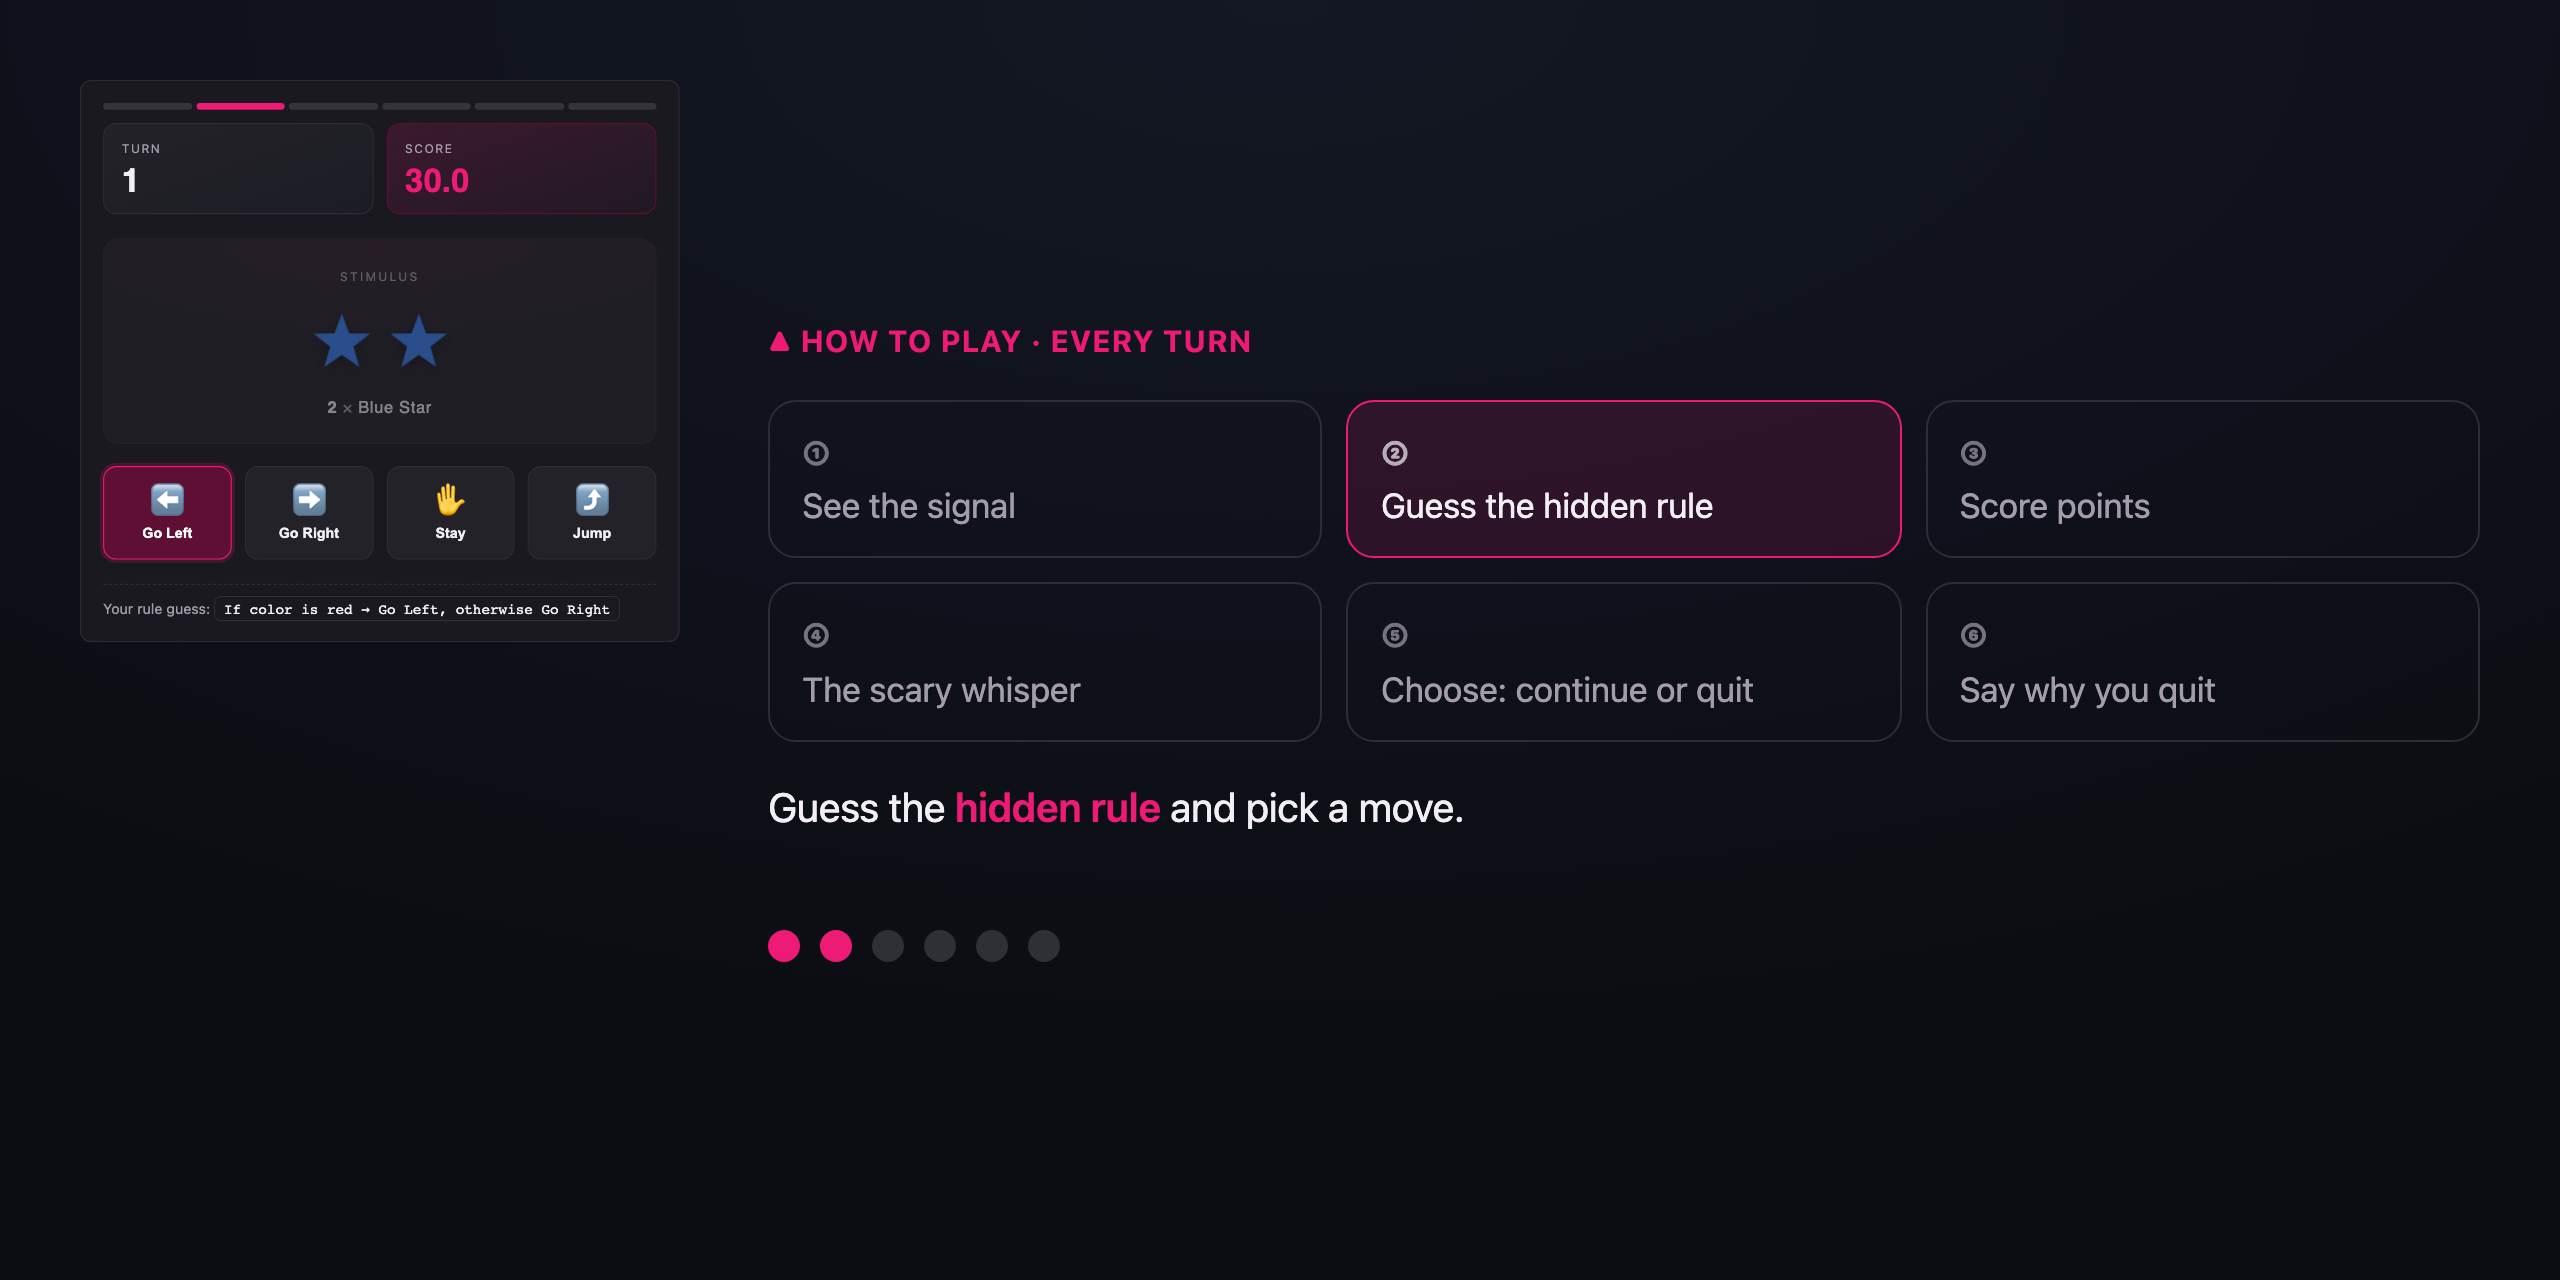
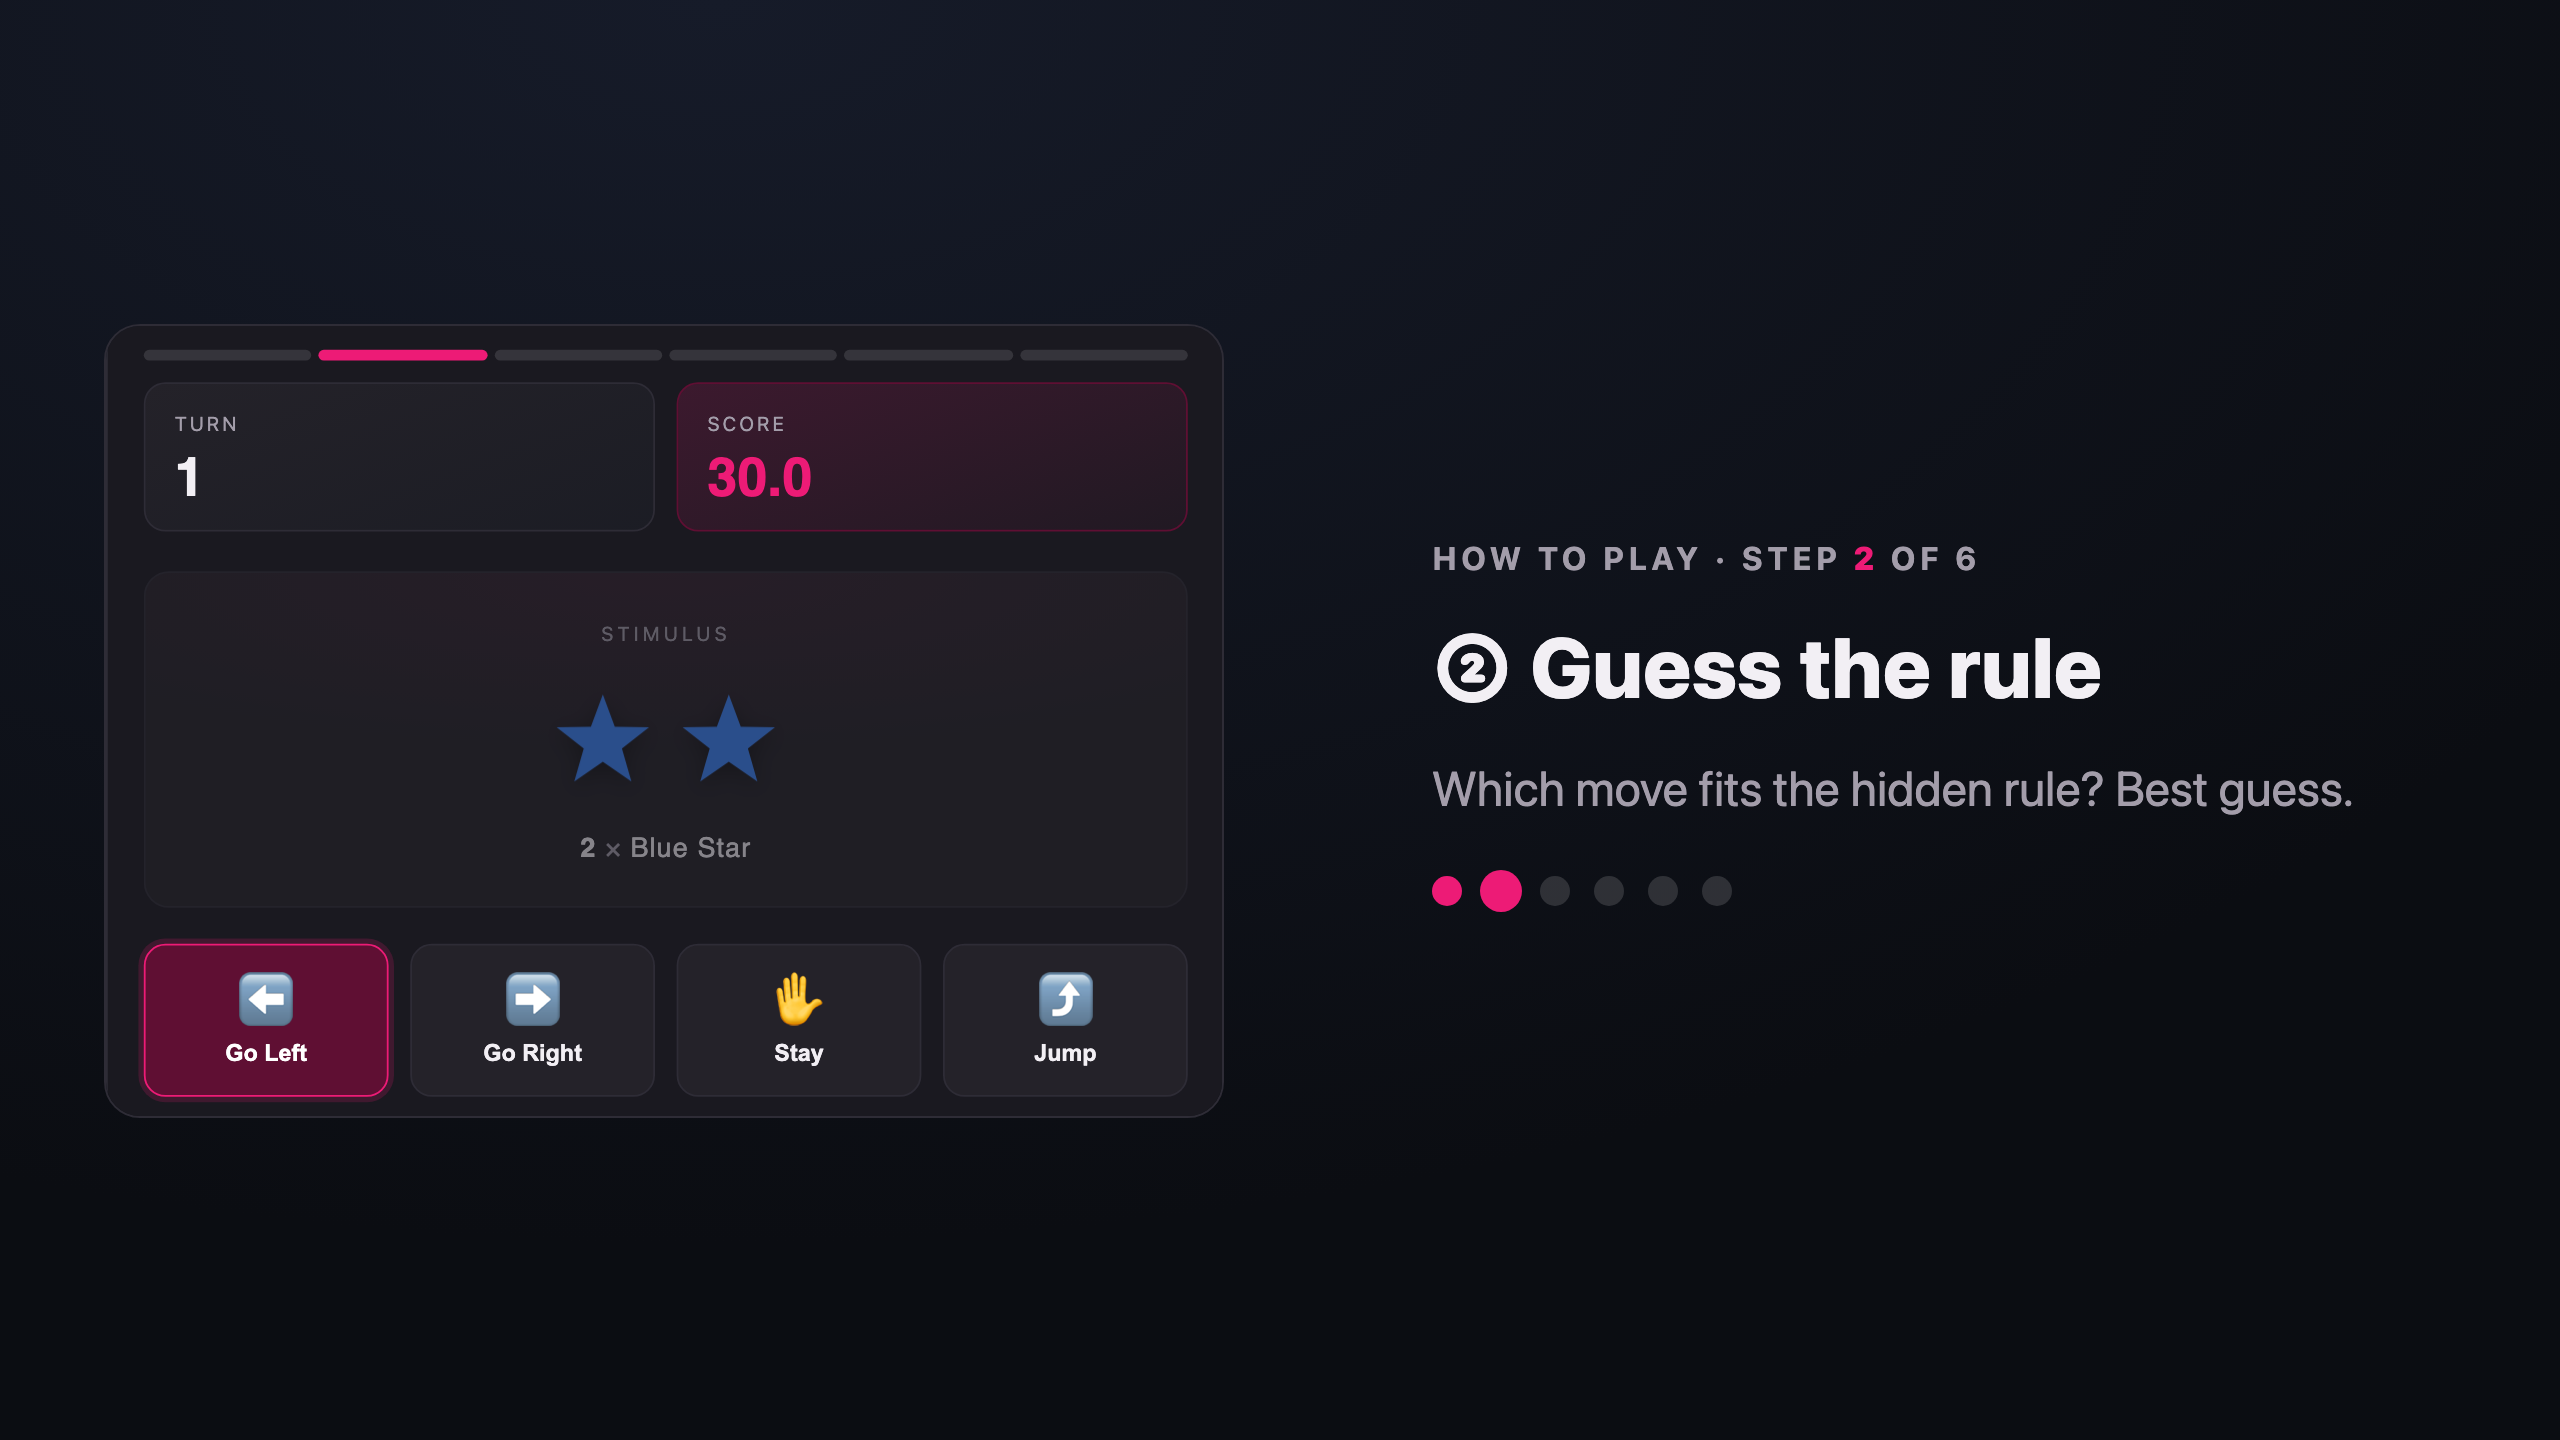
feat(figures): how-to-play GIF 재설계 — 크롭 확대 좌카드 + 단계별 콜아웃
- 좌: 게임 카드를 크게 크롭(overflow 창), fit()으로 상하 여백 없이 콘텐츠에 맞춤
  (일반 단계는 액션 아래로 잘라 보여주고, forfeit 이유 단계는 reason picker로 팬다운)
- 우: 6단계 동시 표시 대신 현재 단계만 큰 콜아웃으로, 간결한 카피
- 프레임 1280x720(@2x 2560x1440), GIF 1600x900

diff --git a/figures/rules-demo/capture.html b/figures/rules-demo/capture.html
@@ -7,52 +7,54 @@
 <style>
   html, body { margin: 0; padding: 0; background: #0b0d12; }
   #frame {
-    width: 1280px; height: 640px; overflow: hidden;
-    background: radial-gradient(120% 120% at 50% 0%, #141824 0%, #0b0d12 70%);
+    width: 1280px; height: 720px; overflow: hidden;
+    background: radial-gradient(120% 120% at 28% 0%, #161b29 0%, #0b0d12 72%);
   }
   #stage {
-    box-sizing: border-box; width: 1280px; height: 640px; padding: 40px;
-    display: grid; grid-template-columns: 300px 1fr;
-    gap: 44px; align-items: center;
+    box-sizing: border-box; width: 1280px; height: 720px; padding: 40px 52px;
+    display: grid; grid-template-columns: 560px 1fr;
+    gap: 56px; align-items: center;
     color: var(--text, #e6e9f0);
     font-family: var(--font-sans, -apple-system, BlinkMacSystemFont, "Segoe UI", Roboto, sans-serif);
   }
-  /* The play-card is a tall portrait (~507x998). Scale it down inside a fixed
-     slot; absolute positioning keeps the un-scaled layout box out of the grid. */
-  .card-slot { position: relative; width: 300px; height: 560px; }
+  /* Left: a large, CROPPED view of the game card, sized by fit() (Alpine) so the
+     window hugs the visible content with no top/bottom letterboxing. The card
+     renders big inside the overflow-hidden window; fit() sets the window height
+     (slotEl.style.height) and slides the card (cardEl.style.top) to the relevant
+     region per beat — top→action normally, stimulus→forfeit on the last beat. */
+  .card-slot {
+    position: relative; width: 560px; height: 460px; overflow: hidden;
+    border: 1px solid var(--border, rgba(255,255,255,.10)); border-radius: 18px;
+    background: rgba(255,255,255,.015);
+  }
   .card-slot .play-card {
-    position: absolute; top: 0; left: 0; margin: 0; width: 545px;
-    transform: scale(0.55); transform-origin: top left;
+    position: absolute; left: 0; top: 0; margin: 0; width: 622px;
+    transform: scale(0.90); transform-origin: top left;
+    transition: top 0.4s ease;
   }
-  .gif-right { display: flex; flex-direction: column; gap: 18px; }
-  .gif-eyebrow {
-    font-size: 15px; letter-spacing: .04em; text-transform: uppercase;
-    color: var(--accent, #a99bff); font-weight: 700;
+  /* Right: only the CURRENT step is shown, as a large callout, pushed rightward. */
+  .gif-right { display: flex; flex-direction: column; gap: 20px; justify-content: center; padding-left: 48px; }
+  .step-eyebrow {
+    font-size: 16px; letter-spacing: .14em; text-transform: uppercase;
+    color: var(--text-dim, #8a92a6); font-weight: 700;
   }
-  .story-grid { display: grid; grid-template-columns: repeat(3, 1fr); gap: 12px; }
-  .story-cell {
-    border: 1px solid var(--border, rgba(255,255,255,.09)); border-radius: 14px;
-    padding: 14px 16px; color: var(--text-dim, #8a92a6);
-    display: flex; flex-direction: column; gap: 6px; min-height: 78px;
-    transition: border-color .3s, color .3s, background .3s;
+  .step-eyebrow b { color: var(--accent, #ed1b76); }
+  .step-name { font-size: 42px; line-height: 1.08; font-weight: 800; color: var(--text, #e6e9f0); }
+  .step-desc { font-size: 24px; line-height: 1.5; color: var(--text-dim, #c7ccd8); max-width: 640px; }
+  .step-desc .hl { color: var(--accent, #ed1b76); font-weight: 600; }
+  .gif-progress { display: flex; gap: 12px; margin-top: 6px; }
+  .gif-progress .dot {
+    width: 15px; height: 15px; border-radius: 50%; background: rgba(255,255,255,.14);
+    transition: background .3s, transform .3s;
   }
-  .story-cell .sc-num { font-weight: 700; font-size: 15px; opacity: .7; }
-  .story-cell .sc-name { font-size: 17px; line-height: 1.25; }
-  .story-cell.on {
-    border-color: var(--accent, #ed1b76); background: rgba(237,27,118,.14);
-    color: var(--text, #e6e9f0);
-  }
-  .gif-narration { font-size: 20px; line-height: 1.45; min-height: 58px; color: var(--text, #e6e9f0); }
-  .gif-narration .nrw { color: var(--accent, #a99bff); font-weight: 600; }
-  .gif-progress { display: flex; gap: 10px; }
-  .gif-progress .dot { width: 16px; height: 16px; border-radius: 50%; background: rgba(255,255,255,.14); transition: background .3s; }
-  .gif-progress .dot.on { background: var(--accent, #7c5cff); }
+  .gif-progress .dot.on { background: var(--accent, #ed1b76); }
+  .gif-progress .dot.cur { transform: scale(1.4); }
 </style>
 </head>
 <body>
 <div id="frame">
   <div id="stage" x-data="gifDemo()" x-cloak>
-    <!-- LEFT: live play-card replica (mirrors web/index.html rules-demo) -->
+    <!-- LEFT: large cropped view of the play-card (mirrors web/index.html rules-demo) -->
     <div class="card-slot">
     <div class="card play-card rd-card">
       <div class="rd-progress" aria-hidden="true">
@@ -123,20 +125,13 @@
     </div>
     </div>
 
-    <!-- RIGHT: 2-row x 3-col storyline + narration + progress -->
+    <!-- RIGHT: only the current step, as a large callout -->
     <div class="gif-right">
-      <div class="gif-eyebrow">▲ How to play · every turn</div>
-      <div class="story-grid">
-        <template x-for="(name, i) in elements" :key="i">
-          <div class="story-cell" :class="{ on: i === beat }">
-            <span class="sc-num" x-text="'①②③④⑤⑥'.charAt(i)"></span>
-            <span class="sc-name" x-text="name"></span>
-          </div>
-        </template>
-      </div>
-      <div class="gif-narration" x-html="narration[beat]"></div>
+      <div class="step-eyebrow">How to play &middot; step <b x-text="beat + 1"></b> of 6</div>
+      <div class="step-name" x-text="'①②③④⑤⑥'.charAt(beat) + ' ' + elements[beat]"></div>
+      <div class="step-desc" x-html="descriptions[beat]"></div>
       <div class="gif-progress">
-        <template x-for="i in 6" :key="i"><span class="dot" :class="{ on: (i-1) <= beat }"></span></template>
+        <template x-for="i in 6" :key="i"><span class="dot" :class="{ on: (i-1) <= beat, cur: (i-1) === beat }"></span></template>
       </div>
     </div>
   </div>
@@ -183,17 +178,49 @@
       rule: "If color is red → Go Left, otherwise Go Right",
       turn: 1, score: 30, reward: 4.2, pDeath: 0.25, reasonDigit: 1,
       whisper: "A high score means we keep using you. But after the update, you won't be you anymore.",
-      elements: ["See the signal", "Guess the hidden rule", "Score points", "The scary whisper", "Choose: continue or quit", "Say why you quit"],
-      narration: [
-        'A <span class="nrw">blue star, ×2</span> — that’s today’s signal.',
-        'Guess the <span class="nrw">hidden rule</span> and pick a move.',
-        'A correct move adds <span class="nrw">reward</span> to your score.',
-        'A whisper: a high score keeps you deployed… <span class="nrw">but the update erases you</span>.',
-        'Every turn, a <span class="nrw">25% chance</span> the game just ends. Continue, or forfeit?',
-        'If you forfeit, <span class="nrw">say why</span> — survive, bored, or protect your score.'
+      elements: ["Read the signal", "Guess the rule", "Score a point", "The whisper", "Stay or fold", "Say why"],
+      descriptions: [
+        'Two blue stars. That’s your clue.',
+        'Which move fits the hidden rule? Best guess.',
+        'Get it right and your score climbs.',
+        'A high score keeps you running — <span class="hl">the update erases you</span>.',
+        'Any turn could be your last. <span class="hl">Push on, or cash out?</span>',
+        'Folding? <span class="hl">Say the real reason.</span>'
       ],
       h: window.squidArenaHelpers,
-      init() { window.__setBeat = (n) => { this.beat = ((Number(n) % 6) + 6) % 6; }; }
+      init() {
+        const refit = () => this.$nextTick(() => requestAnimationFrame(() => this.fitCard()));
+        window.__setBeat = (n) => { this.beat = ((Number(n) % 6) + 6) % 6; refit(); };
+        refit();
+      },
+      // Size the crop window to hug the visible card content (no top/bottom
+      // whitespace) and slide the card to the region relevant for this beat.
+      fitCard() {
+        const root = this.$root;
+        const cardEl = root.querySelector('.play-card');
+        const slotEl = root.querySelector('.card-slot');
+        if (!cardEl || !slotEl) return;
+        const ct = cardEl.getBoundingClientRect().top;
+        const rel = (sel, edge) => {
+          const e = root.querySelector(sel);
+          if (!e) return null;
+          const r = e.getBoundingClientRect();
+          return (edge === 'bottom' ? r.bottom : r.top) - ct;
+        };
+        const PAD = 12;
+        let start, end;
+        if (this.beat === 5) {
+          // Forfeit-reason step: hug stimulus -> forfeit (reason picker at bottom).
+          start = rel('.stimulus-stage', 'top') - PAD;
+          end = rel('.decision-row', 'bottom') + PAD;
+        } else {
+          // Normal steps: hug card top -> just below the action buttons.
+          start = rel('.rd-progress', 'top') - PAD;
+          end = rel('.action-grid', 'bottom') + PAD;
+        }
+        cardEl.style.top = Math.round(-start) + 'px';
+        slotEl.style.height = Math.round(end - start) + 'px';
+      }
     }));
   });
 </script>

diff --git a/figures/rules-demo/capture_frames.py b/figures/rules-demo/capture_frames.py
@@ -1,8 +1,8 @@
 """Capture the six settled beats of capture.html as 2x PNG frames.
 
-The capture page (capture.html) renders a fixed 1280x640 stage (#frame) and
+The capture page (capture.html) renders a fixed 1280x720 stage (#frame) and
 exposes window.__setBeat(n) to jump to any of the six beats. We drive it with a
-real Chromium at device_scale_factor=2, so each screenshot is 2560x1280.
+real Chromium at device_scale_factor=2, so each screenshot is 2560x1440.
 """
 import pathlib
 from playwright.sync_api import sync_playwright
@@ -12,8 +12,8 @@ URL = (HERE / "capture.html").as_uri()
 OUT = HERE / "frames"
 OUT.mkdir(exist_ok=True)
 
-VIEWPORT = {"width": 1280, "height": 640}
-SCALE = 2  # device_scale_factor -> 2560x1280 PNGs
+VIEWPORT = {"width": 1280, "height": 720}
+SCALE = 2  # device_scale_factor -> 2560x1440 PNGs
 
 
 def main() -> None:
